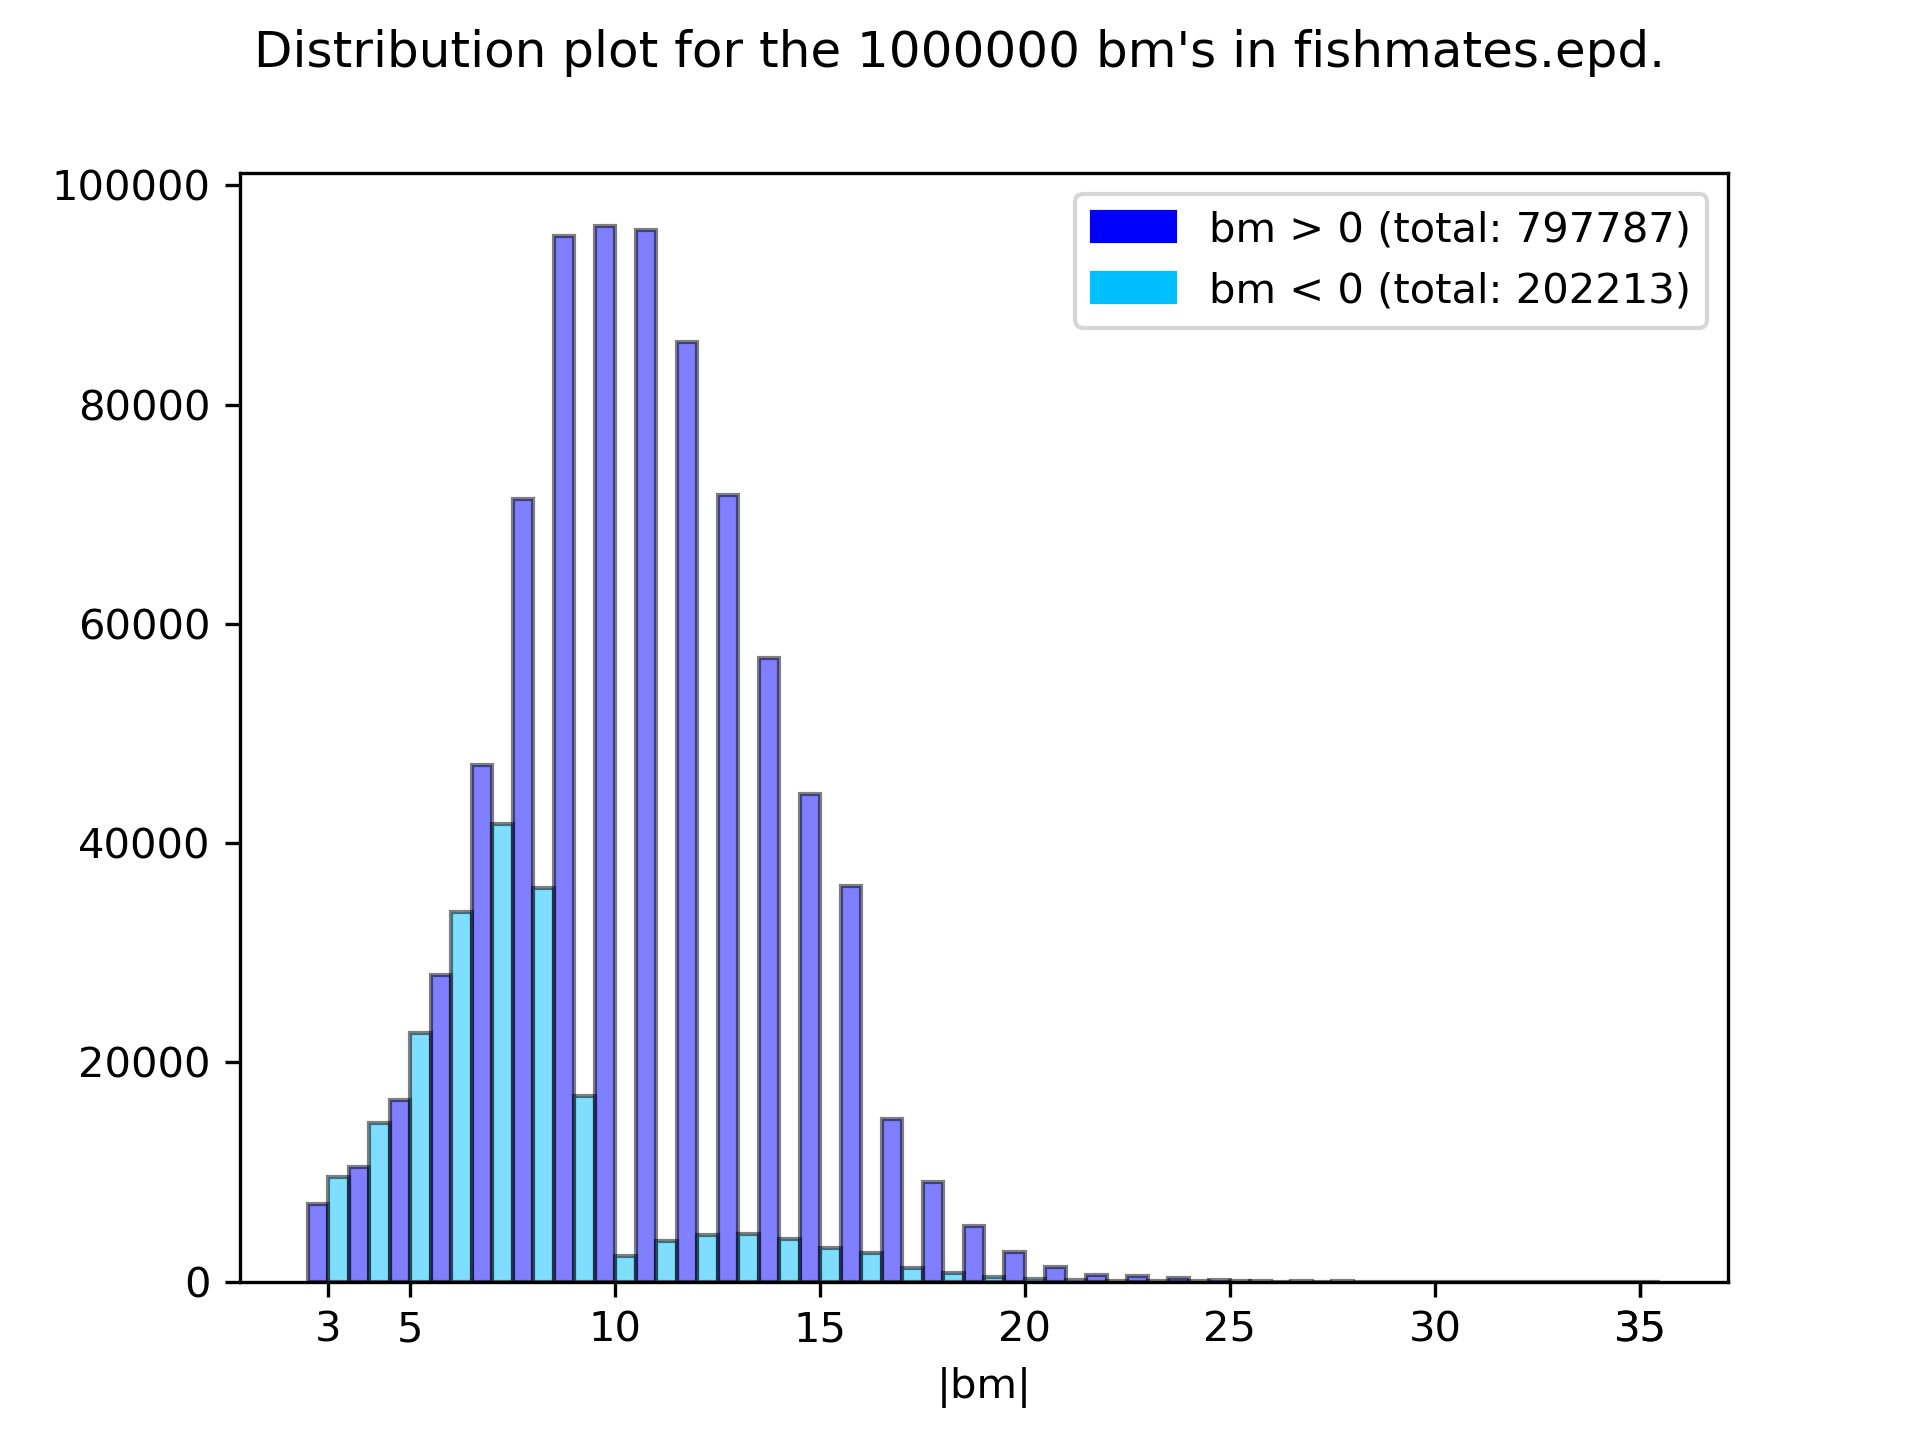
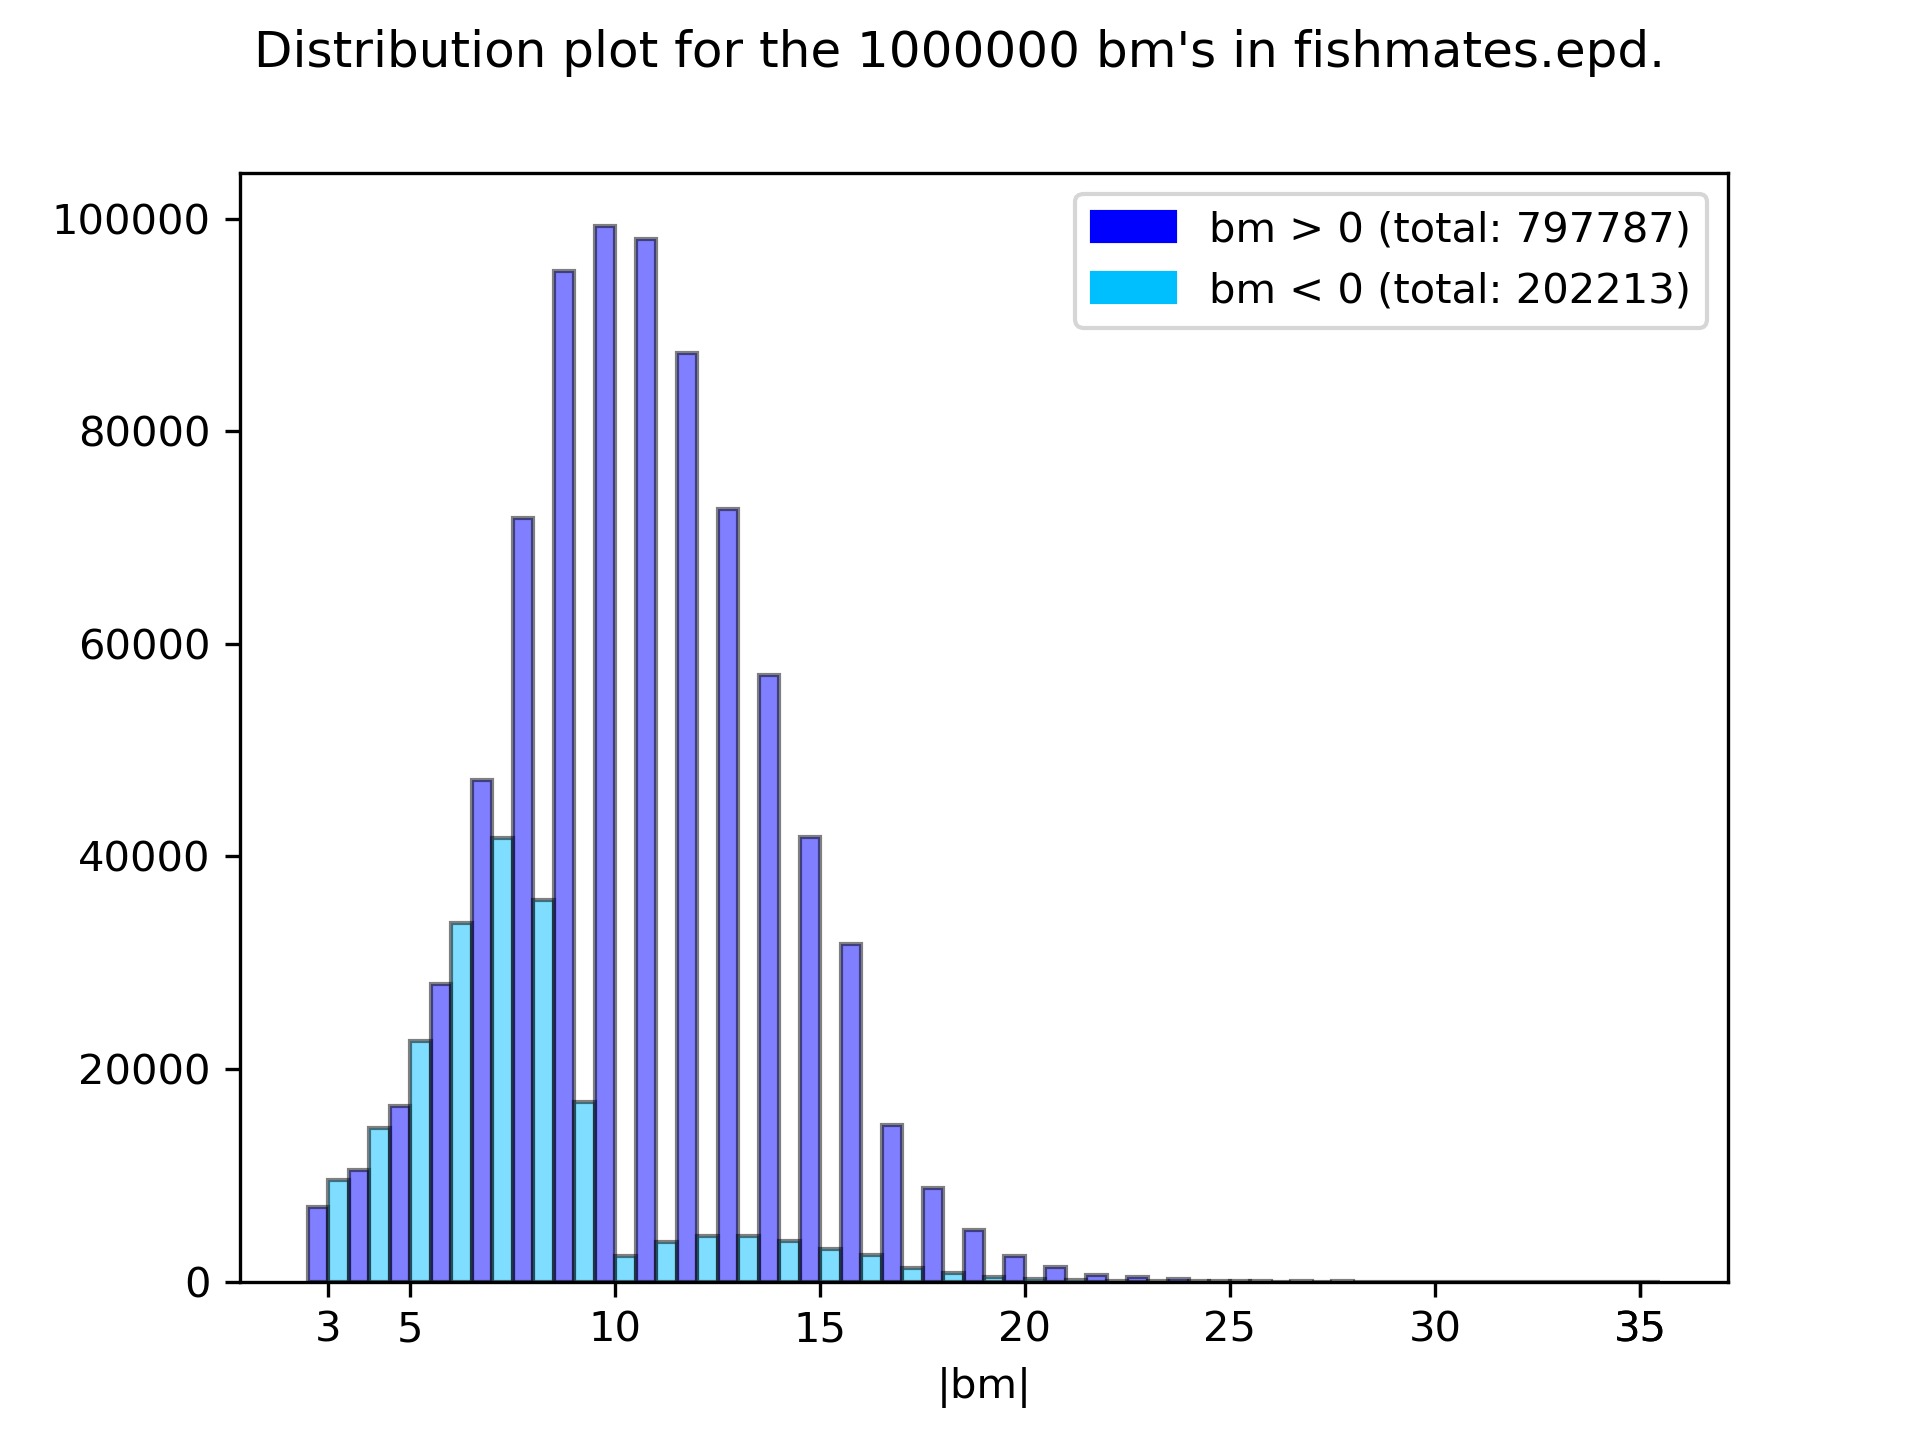
improve/shorten the mates in fishmates.epd.gz (#96)

diff --git a/Readme.md b/Readme.md
@@ -63,9 +63,6 @@ See [plot](images/mates2000.png?raw=true).
 * `classic280.epd`: A collection of 280 classic endgame mates, derived from `*_1000pv.epd` by sampling 40 positions each from KRvK, KBNvK, KBBvK, KQvKP, KQvKR, KRPvKR, KBPvKB. See [plot](images/classic280.png?raw=true).
 * `fishmates.epd.gz`: A collection of 1M mates from LTC fishtest games, ranging from #3 to #35. The positions have between 6 and 31 pieces, and in 202213 positions the side to move is going to get mated.
 See [plot](images/fishmates.png?raw=true). 
-Note: Some of the `bm` values at present are only upper bounds for the fastest
-possible mate,
-see [WIP](https://github.com/robertnurnberg/matetools/pull/96) for improvements.
 
 ### Automatic creation of new test positions
 